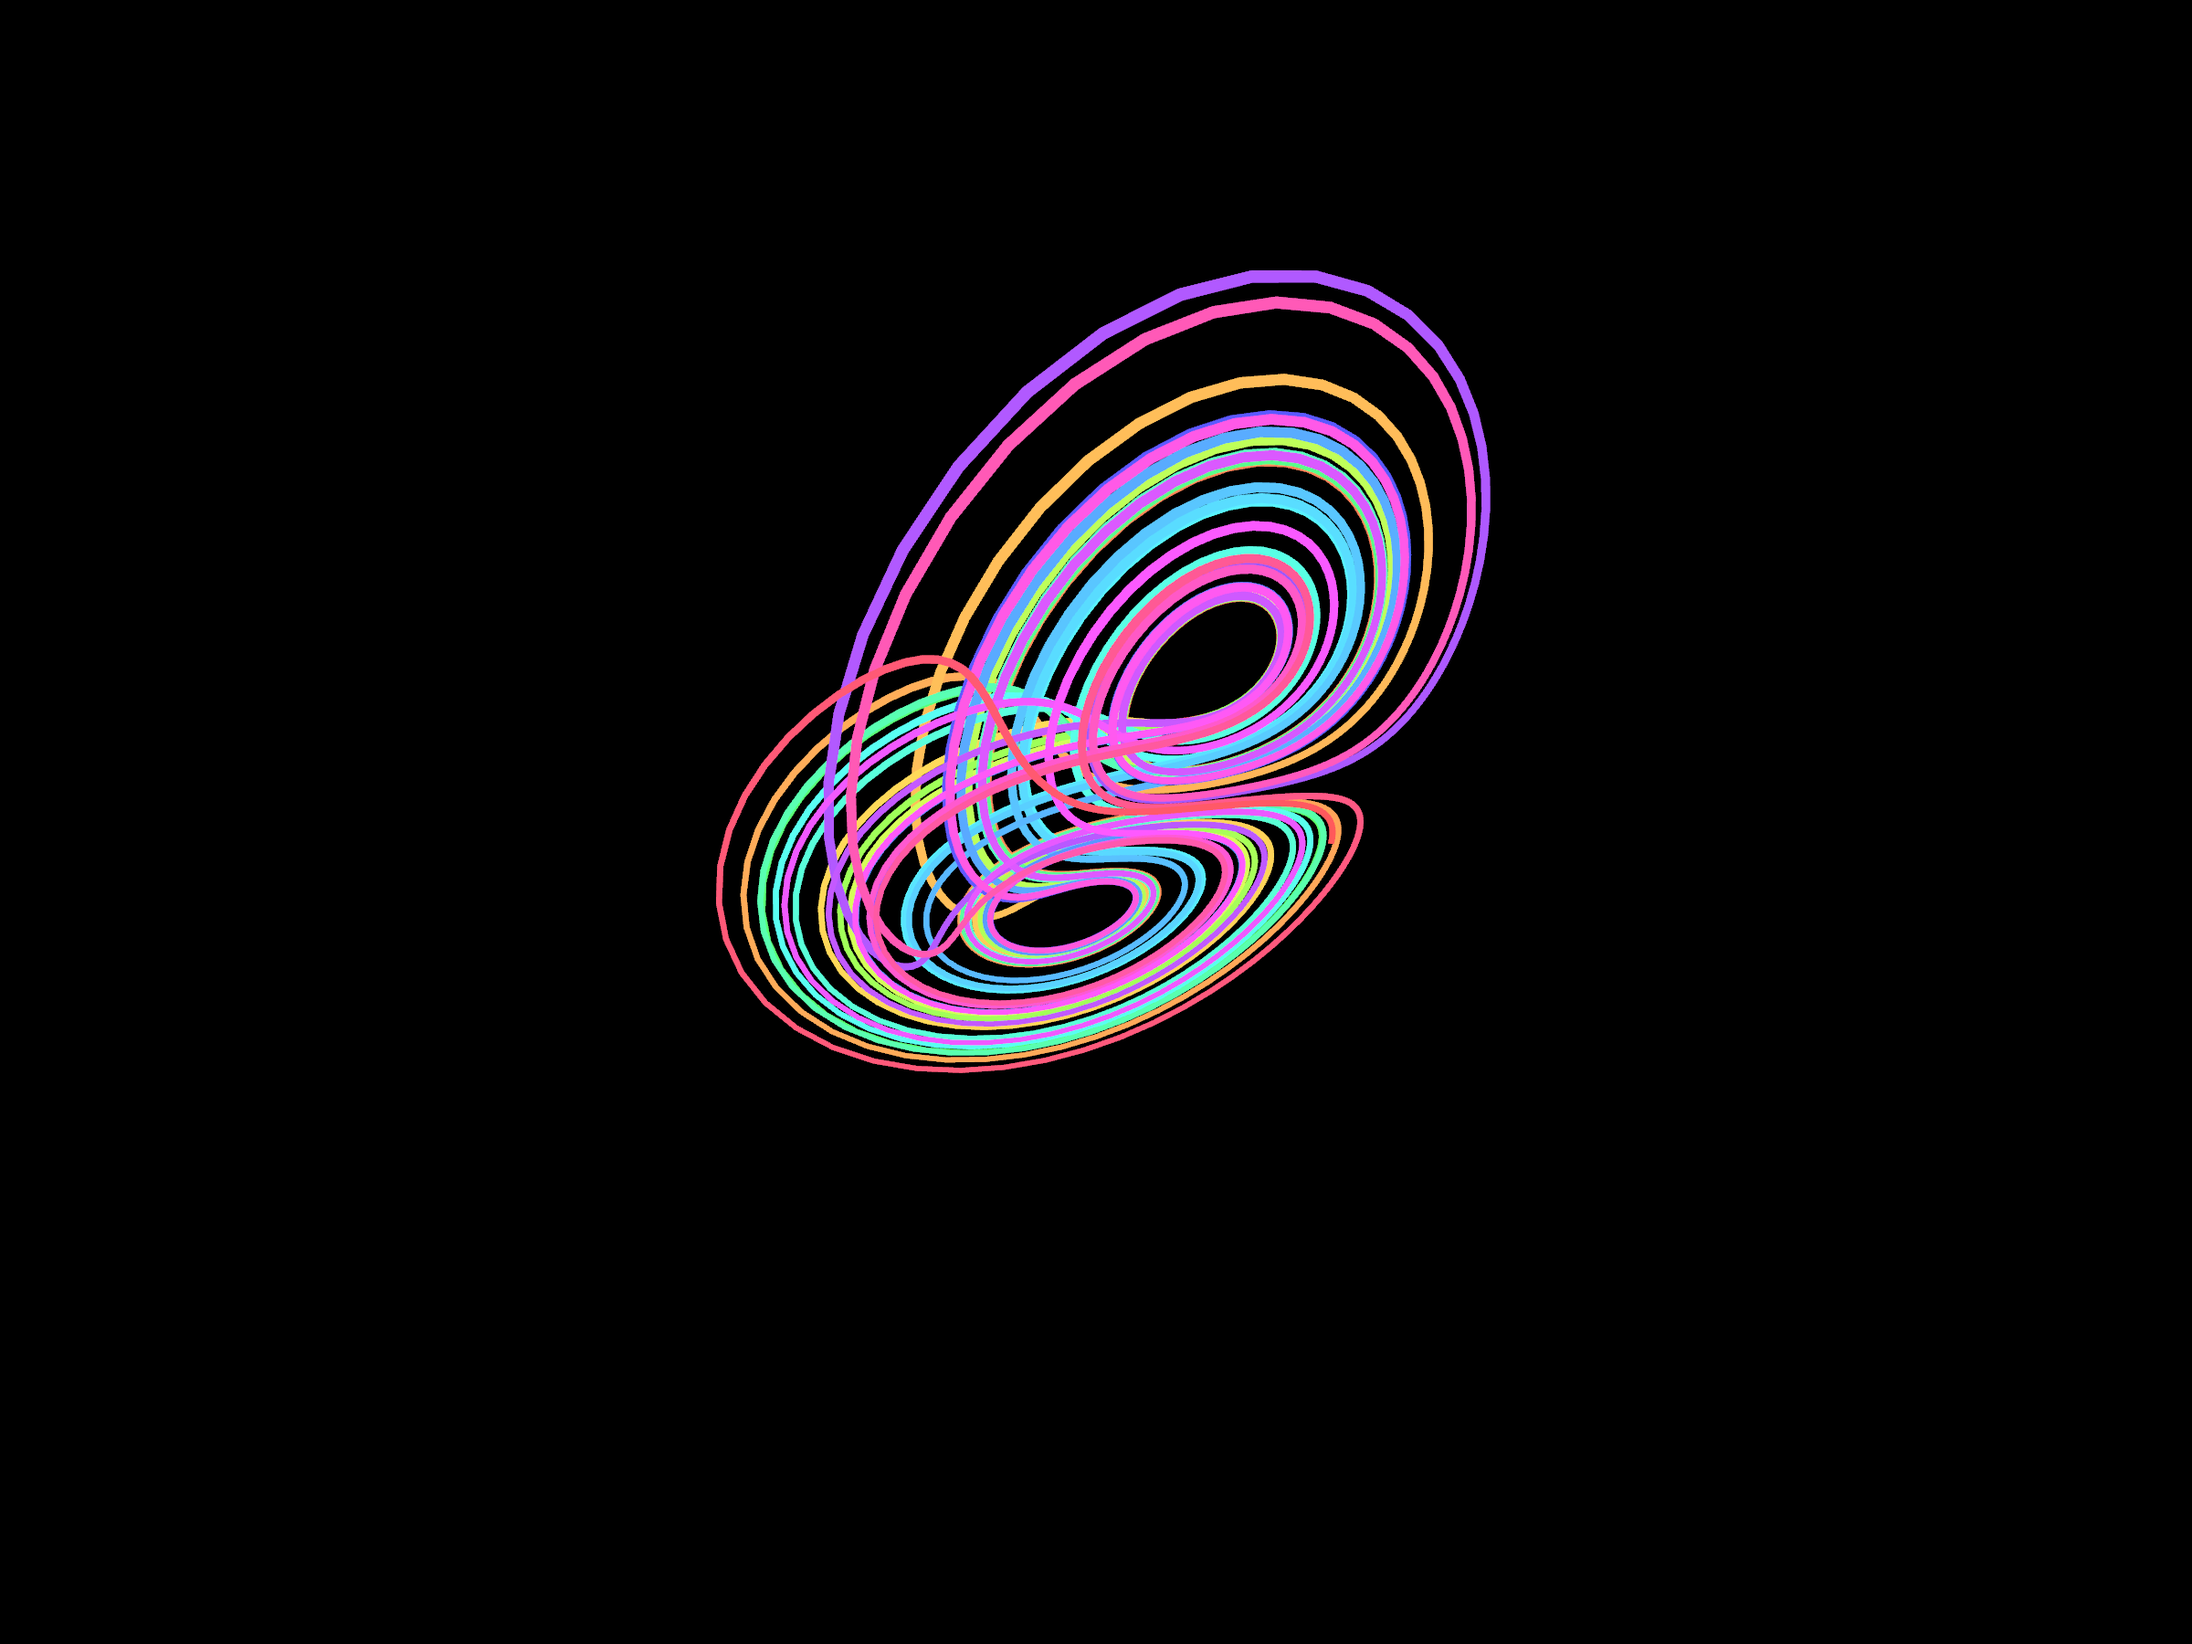
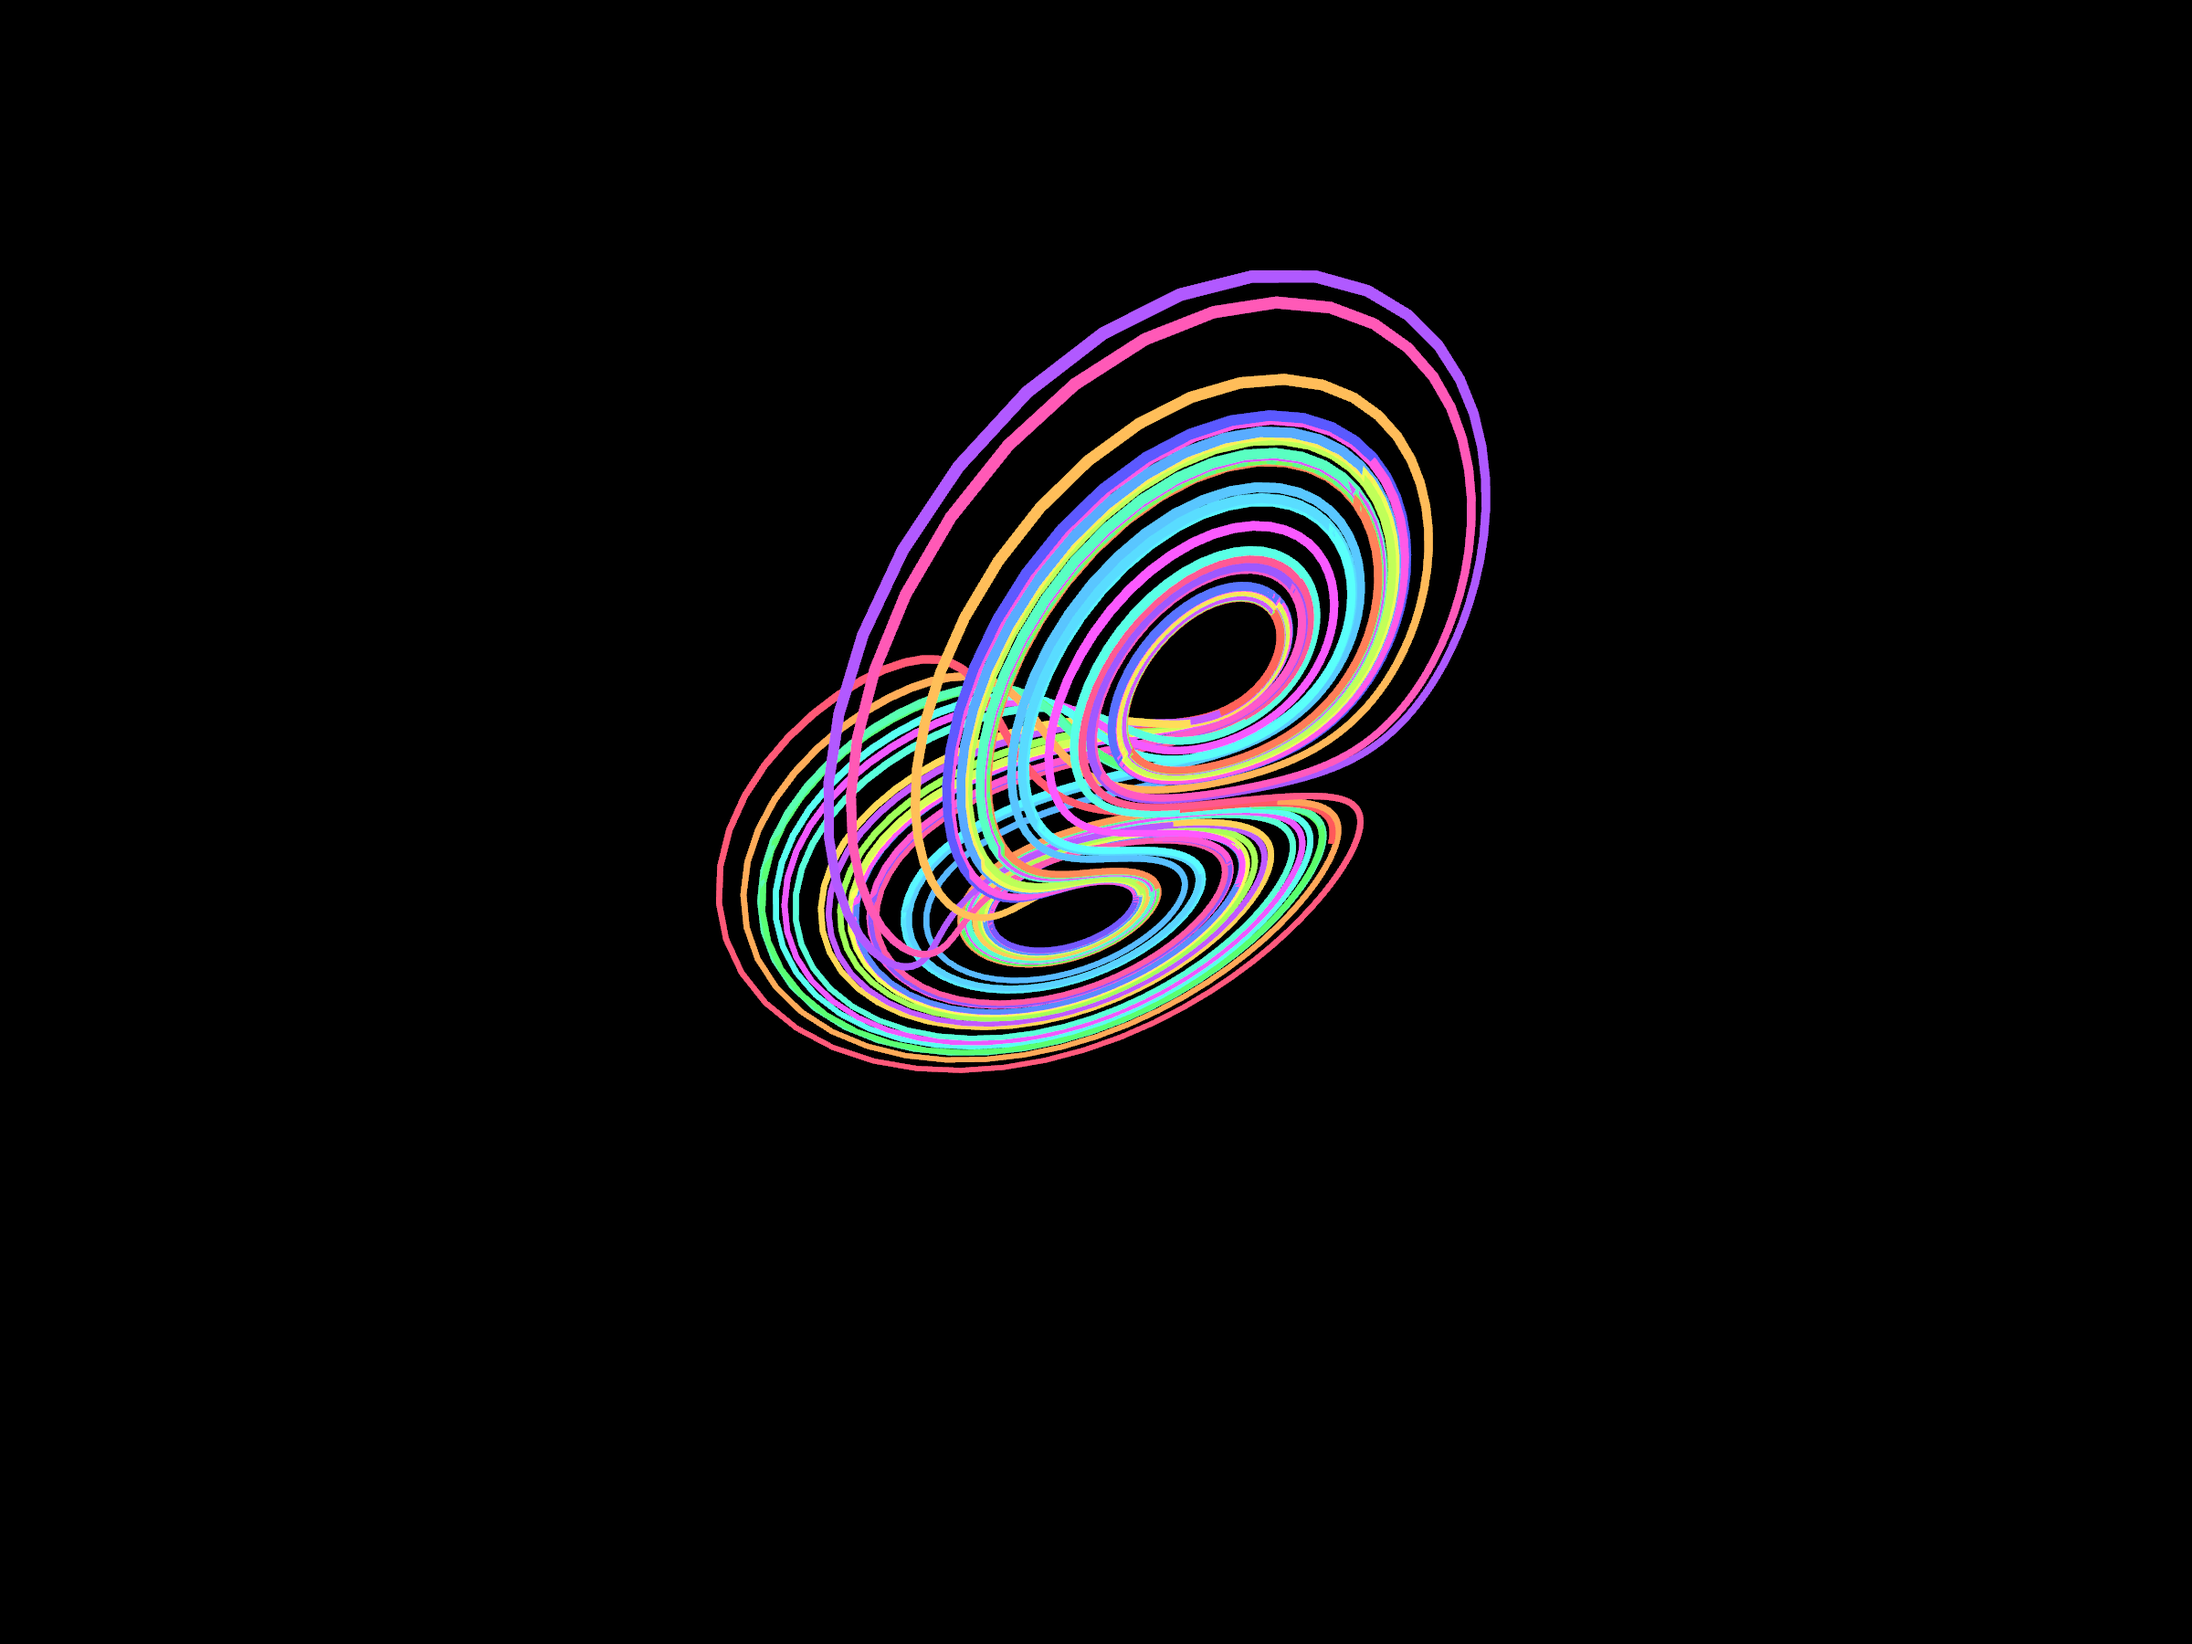
docs(images): re-capture the media with the depth fix
Eleven stills and the hero GIF now come from the renderer that resolves
ribbon self-overlap with a depth buffer. The Moore-Spiegel still keeps its
pre-fix capture: a correct depth test exposes its interleaved loops as a
striped band in the left funnel, so it is left for a later pass (STATUS I14
deferred).

Changed region(s): [[0.4062, 0.2489, 0.6562, 0.6533], [0.375, 0.56, 0.4062, 0.5911]]

diff --git a/rust/STATUS.md b/rust/STATUS.md
@@ -1037,3 +1037,10 @@ plain `git checkout` of the tag is enough.
   `z` in the blue channel, and the centre pixel must stay blue. The test was
   green on a real GPU and a motion recording was reviewed; the stills and the
   hero GIF were re-captured from the fixed renderer.
+- **I14 deferred**: the `moore_spiegel` still is the pre-I14 capture. With a
+  correct depth test its loops interleave at nearly the same depth in the left
+  funnel and read as a yellow-and-pink zebra, so the old frame was kept in
+  `docs/images` and left out of the re-capture set. The other eleven stills and
+  the hero were refreshed. To revisit: either pick an azimuth where the loops
+  do not interleave, or narrow the ribbon radius for this attractor; the
+  capture recipe itself is unchanged.
